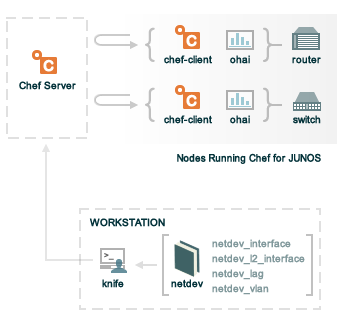
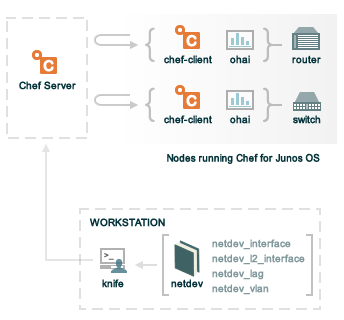
update Chef for Junos OS

Changed region(s): [[0.4651, 0.4688, 0.9302, 0.5312]]

diff --git a/includes_juniper/includes_juniper_junos.rst b/includes_juniper/includes_juniper_junos.rst
@@ -1,4 +1,4 @@
 .. The contents of this file are included in multiple topics.
 .. This file should not be changed in a way that hinders its ability to appear in multiple documentation sets.
 
-|juniper chef| can be used to install the |chef client| on hardware running |junos|, which allows hardware running |junos| to be managed by the |chef server oec| and |chef server osc| servers. The |cookbook netdev| cookbook is an open source cookbook (maintained by |company_name|) that contains a collection of resources that can be used to build recipes that extend the node management capabilities of the |chef server| to include |juniper| routers, switches, and VLANs.
+|juniper chef| allows hardware running |junos|, which allows hardware running |junos| to be managed by the |chef server oec| and |chef server osc| servers. The |cookbook netdev| cookbook is an open source cookbook (maintained by |company_name|) that contains a collection of resources that can be used to build recipes that extend the node management capabilities of the |chef server| to include |juniper| network devices.
